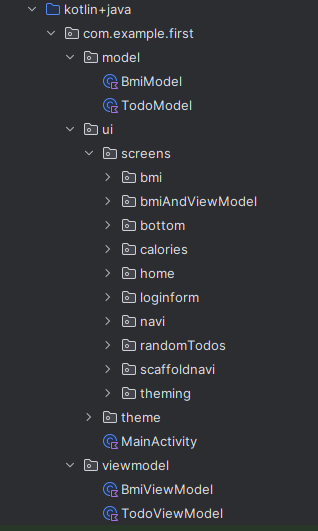
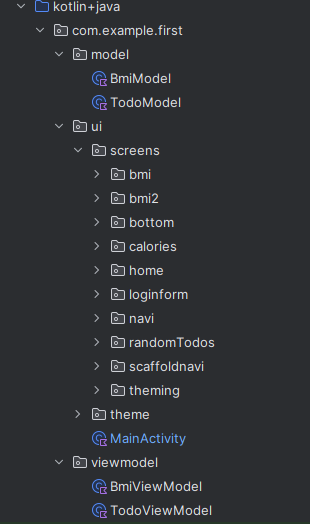
refactoring - one monstorous name

Changed region(s): [[0.0871, 0.0, 0.8129, 1.0]]

diff --git a/mobiili-first/app/src/main/java/com/example/first/ui/MainActivity.kt b/mobiili-first/app/src/main/java/com/example/first/ui/MainActivity.kt
@@ -17,7 +17,7 @@ import androidx.navigation.compose.composable
 import androidx.navigation.compose.currentBackStackEntryAsState
 import androidx.navigation.compose.rememberNavController
 import com.example.first.ui.screens.bmi.Bmi
-import com.example.first.ui.screens.bmiAndViewModel.BmiVM
+import com.example.first.ui.screens.bmi2.BmiVM
 import com.example.first.ui.screens.bottom.CustomBottomAppBar
 import com.example.first.ui.screens.loginform.LoginForm
 import com.example.first.ui.screens.calories.CalorieScreen

diff --git a/mobiili-first/app/src/main/java/com/example/first/ui/screens/bmi2/BmiComposable.kt b/mobiili-first/app/src/main/java/com/example/first/ui/screens/bmi2/BmiComposable.kt
@@ -1,4 +1,4 @@
-package com.example.first.ui.screens.bmiAndViewModel
+package com.example.first.ui.screens.bmi2
 
 import androidx.compose.foundation.layout.Column
 import androidx.compose.foundation.layout.fillMaxWidth
